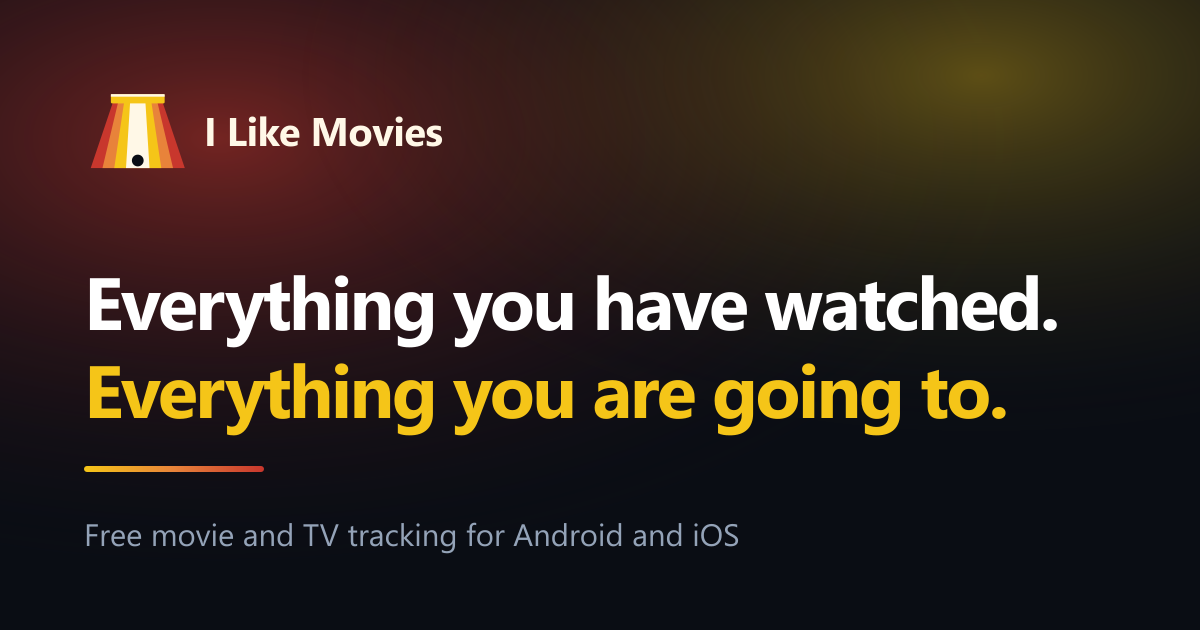
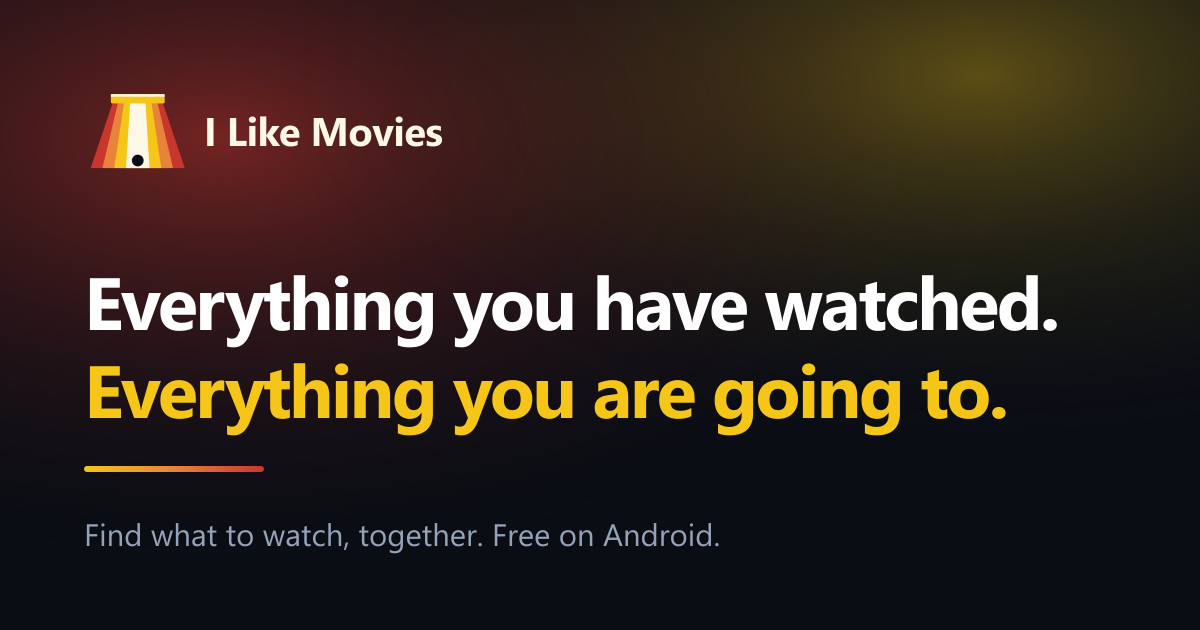
fix(copy): Android-only honesty + discovery-first identity across all surfaces
Every "Android and iOS" claim replaced with "Android" plus an explicit
"iPhone version in development" line: definitional sentence, meta
description, page title, SoftwareApplication operatingSystem, og-image
subtitle, llms.txt and site.webmanifest. Title now leads with "Find what
to watch". Directory sites (SaaSHub, Uneed) scrape these strings verbatim
and AlternativeTo moderators verify the site against the submission.

Changed region(s): [[0.0925, 0.8143, 0.6167, 0.8746]]

diff --git a/src/data/site.ts b/src/data/site.ts
@@ -55,7 +55,7 @@ export const SITE = {
   // this is the single most-quoted sentence on the site and it is the only
   // one guaranteed to be read.
   definition:
-    'I Like Movies is a free movie and TV tracking app for Android and iOS with an AI assistant that helps you discover what to watch next, share one library with the people you live with, and keep a record of everything you have seen.',
+    'I Like Movies is a free movie and TV app for Android with an AI assistant that helps you discover what to watch next, share one library with the people you live with, and keep a record of everything you have seen. An iPhone version is in development.',
 
   // The meta description is a SEPARATE string, not the definitional sentence.
   // They are built for different readers and cannot be the same text: the
@@ -64,7 +64,7 @@ export const SITE = {
   // mid-clause. This one front-loads the terms someone actually types and
   // stops before the cut.
   metaDescription:
-    'Free movie and TV tracking app for Android and iOS. AI picks from your own ratings, one shared watchlist for your household, and no ads.',
+    'Free movie and TV app for Android. AI picks from your own ratings, one shared watchlist for your household, and no ads. iPhone version in development.',
 
   tagline: 'Everything you have watched. Everything you are going to.',
 
